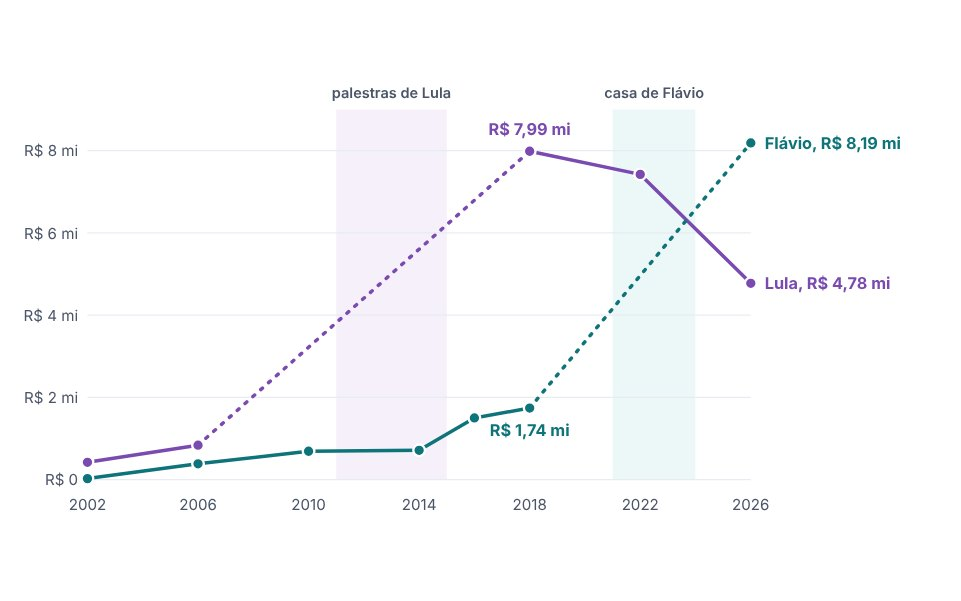
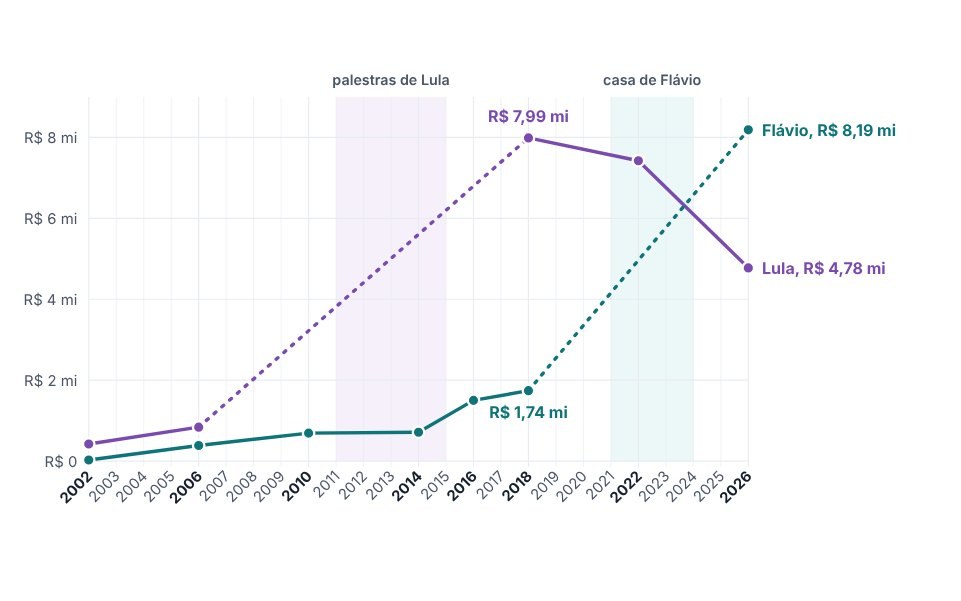
Gráfico do patrimônio com todos os anos no eixo
Cada ano de 2002 a 2026 aparece no eixo, com os anos de declaração ao TSE
em negrito. No celular, o gráfico rola para o lado em vez de pular anos.

diff --git a/patrimonio/index.html b/patrimonio/index.html
@@ -86,7 +86,8 @@ h3{font:700 1.08rem var(--sans);margin:0 0 .7rem}
 .chart{margin:1rem 0 0;background:var(--card);border:1px solid var(--line);border-radius:14px;padding:1rem 1rem .6rem}
 .chart svg{display:block;width:100%;height:auto;font-family:var(--sans)}
 .chart .grid{stroke:var(--grid);stroke-width:1}
-.chart .ax{fill:var(--ink-2);font-size:13px}
+.chart .vgrid{stroke:var(--grid);stroke-width:1;opacity:.6} .chart .vgrid.vd{opacity:1}
+.chart .ax{fill:var(--ink-2);font-size:13px} .chart .ax.yd{fill:var(--ink);font-weight:700}
 .chart .band{opacity:.55} .chart .lu-band{fill:var(--lu-soft)} .chart .fl-band{fill:var(--fl-soft)}
 .chart .band-t{fill:var(--ink-2);font-size:12.5px;font-weight:600}
 .chart .ln{stroke-width:3;stroke-linecap:round} .chart .ln.dash{stroke-dasharray:2 7}
@@ -94,9 +95,11 @@ h3{font:700 1.08rem var(--sans);margin:0 0 .7rem}
 .chart .pt{stroke:var(--card);stroke-width:2} .chart .pt.fl{fill:var(--fl)} .chart .pt.lu{fill:var(--lu)}
 .chart .vl{font-size:14px;font-weight:700} .chart .vl.fl{fill:var(--fl)} .chart .vl.lu{fill:var(--lu)}
 .chart figcaption{font-size:.86rem;color:var(--ink-2);margin-top:.4rem}
-.chart .g-small{display:none}
-@media (max-width:640px){.chart{padding:.8rem .6rem .6rem}.chart .g-big{display:none}.chart .g-small{display:block}.chart .ax,.chart .band-t{font-size:13px}.chart .vl{font-size:14.5px}}
-.gwrap{display:grid;gap:1.2rem;align-items:start}
+.chart .scroll{overflow-x:auto;-webkit-overflow-scrolling:touch}
+.chart .hint{display:none;margin:0 0 .4rem;font-size:.84rem;color:var(--ink-2)}
+@media (max-width:640px){.chart{padding:.8rem .6rem .6rem}.chart .scroll svg{width:660px;max-width:none}.chart .hint{display:block}}
+.gwrap{display:grid;grid-template-columns:minmax(0,1fr);gap:1.2rem;align-items:start}
+.gwrap>*{min-width:0}
 @media (min-width:980px){.gwrap{grid-template-columns:minmax(0,1fr) 300px}}
 .decl{width:100%;border-collapse:collapse;background:var(--card);border:1px solid var(--line);border-radius:12px;overflow:hidden;font-size:.95rem}
 .decl th,.decl td{padding:.5rem .7rem;border-bottom:1px solid var(--line);text-align:right}
@@ -207,7 +210,7 @@ h3{font:700 1.08rem var(--sans);margin:0 0 .7rem}
     <h2 id="h-graf">O patrimônio declarado, eleição por eleição</h2>
     <p class="muted">Bens em nome de cada um, pelo valor declarado ao TSE, sem dívidas. A linha pontilhada liga eleições que eles não disputaram no meio do caminho.</p>
     <div class="gwrap">
-      <figure class="chart"><div class="g-big"><svg viewBox="0 0 800 400" role="img" aria-labelledby="gT gD"><title id="gT">Patrimônio declarado de Flávio e de Lula, de 2002 a 2026</title><desc id="gD">Patrimônio declarado ao TSE. Flávio: 2002, R$ 26 mil; 2006, R$ 385 mil; 2010, R$ 691 mil; 2014, R$ 714 mil; 2016, R$ 1,50 milhão; 2018, R$ 1,74 milhão; 2026, R$ 8,19 milhões. Lula: 2002, R$ 423 mil; 2006, R$ 839 mil; 2018, R$ 7,99 milhões; 2022, R$ 7,42 milhões; 2026, R$ 4,78 milhões.</desc><rect x="283.8" y="34" width="95.0" height="318" class="band lu-band"/><text x="331.2" y="24" class="band-t" text-anchor="middle">palestras de Lula</text><rect x="521.2" y="34" width="71.2" height="318" class="band fl-band"/><text x="556.9" y="24" class="band-t" text-anchor="middle">casa de Flávio</text><line x1="70" x2="640" y1="352.0" y2="352.0" class="grid"/><text x="62" y="357.0" class="ax" text-anchor="end">R$ 0</text><line x1="70" x2="640" y1="281.3" y2="281.3" class="grid"/><text x="62" y="286.3" class="ax" text-anchor="end">R$ 2 mi</text><line x1="70" x2="640" y1="210.7" y2="210.7" class="grid"/><text x="62" y="215.7" class="ax" text-anchor="end">R$ 4 mi</text><line x1="70" x2="640" y1="140.0" y2="140.0" class="grid"/><text x="62" y="145.0" class="ax" text-anchor="end">R$ 6 mi</text><line x1="70" x2="640" y1="69.3" y2="69.3" class="grid"/><text x="62" y="74.3" class="ax" text-anchor="end">R$ 8 mi</text><text x="70.0" y="378" class="ax" text-anchor="middle">2002</text><text x="165.0" y="378" class="ax" text-anchor="middle">2006</text><text x="260.0" y="378" class="ax" text-anchor="middle">2010</text><text x="355.0" y="378" class="ax" text-anchor="middle">2014</text><text x="450.0" y="378" class="ax" text-anchor="middle">2018</text><text x="545.0" y="378" class="ax" text-anchor="middle">2022</text><text x="640.0" y="378" class="ax" text-anchor="middle">2026</text><line x1="70.0" y1="337.1" x2="165.0" y2="322.4" class="ln lu"/><line x1="165.0" y1="322.4" x2="450.0" y2="69.8" class="ln lu dash"/><line x1="450.0" y1="69.8" x2="545.0" y2="89.7" class="ln lu"/><line x1="545.0" y1="89.7" x2="640.0" y2="183.3" class="ln lu"/><circle cx="70.0" cy="337.1" r="5" class="pt lu"><title>2002: R$ 423 mil</title></circle><circle cx="165.0" cy="322.4" r="5" class="pt lu"><title>2006: R$ 839 mil</title></circle><circle cx="450.0" cy="69.8" r="5" class="pt lu"><title>2018: R$ 7,99 milhões</title></circle><circle cx="545.0" cy="89.7" r="5" class="pt lu"><title>2022: R$ 7,42 milhões</title></circle><circle cx="640.0" cy="183.3" r="5" class="pt lu"><title>2026: R$ 4,78 milhões</title></circle><line x1="70.0" y1="351.1" x2="165.0" y2="338.4" class="ln fl"/><line x1="165.0" y1="338.4" x2="260.0" y2="327.6" class="ln fl"/><line x1="260.0" y1="327.6" x2="355.0" y2="326.8" class="ln fl"/><line x1="355.0" y1="326.8" x2="402.5" y2="299.0" class="ln fl"/><line x1="402.5" y1="299.0" x2="450.0" y2="290.5" class="ln fl"/><line x1="450.0" y1="290.5" x2="640.0" y2="62.7" class="ln fl dash"/><circle cx="70.0" cy="351.1" r="5" class="pt fl"><title>2002: R$ 26 mil</title></circle><circle cx="165.0" cy="338.4" r="5" class="pt fl"><title>2006: R$ 385 mil</title></circle><circle cx="260.0" cy="327.6" r="5" class="pt fl"><title>2010: R$ 691 mil</title></circle><circle cx="355.0" cy="326.8" r="5" class="pt fl"><title>2014: R$ 714 mil</title></circle><circle cx="402.5" cy="299.0" r="5" class="pt fl"><title>2016: R$ 1,50 milhão</title></circle><circle cx="450.0" cy="290.5" r="5" class="pt fl"><title>2018: R$ 1,74 milhão</title></circle><circle cx="640.0" cy="62.7" r="5" class="pt fl"><title>2026: R$ 8,19 milhões</title></circle><text x="450.0" y="55.8" class="vl lu" text-anchor="middle">R$ 7,99 mi</text><text x="450.0" y="314.5" class="vl fl" text-anchor="middle">R$ 1,74 mi</text><text x="652.0" y="67.7" class="vl fl">Flávio, R$ 8,19 mi</text><text x="652.0" y="188.3" class="vl lu">Lula, R$ 4,78 mi</text></svg></div><div class="g-small"><svg viewBox="0 0 430 330" role="img" aria-labelledby="gT2 gD2"><title id="gT2">Patrimônio declarado de Flávio e de Lula, de 2002 a 2026</title><desc id="gD2">Patrimônio declarado ao TSE. Flávio: 2002, R$ 26 mil; 2006, R$ 385 mil; 2010, R$ 691 mil; 2014, R$ 714 mil; 2016, R$ 1,50 milhão; 2018, R$ 1,74 milhão; 2026, R$ 8,19 milhões. Lula: 2002, R$ 423 mil; 2006, R$ 839 mil; 2018, R$ 7,99 milhões; 2022, R$ 7,42 milhões; 2026, R$ 4,78 milhões.</desc><rect x="152.5" y="30" width="47.3" height="260" class="band lu-band"/><text x="176.2" y="20" class="band-t" text-anchor="middle">palestras</text><rect x="270.8" y="30" width="35.5" height="260" class="band fl-band"/><text x="288.6" y="20" class="band-t" text-anchor="middle">casa</text><line x1="46" x2="330" y1="290.0" y2="290.0" class="grid"/><text x="38" y="295.0" class="ax" text-anchor="end">0</text><line x1="46" x2="330" y1="232.2" y2="232.2" class="grid"/><text x="38" y="237.2" class="ax" text-anchor="end">2 mi</text><line x1="46" x2="330" y1="174.4" y2="174.4" class="grid"/><text x="38" y="179.4" class="ax" text-anchor="end">4 mi</text><line x1="46" x2="330" y1="116.7" y2="116.7" class="grid"/><text x="38" y="121.7" class="ax" text-anchor="end">6 mi</text><line x1="46" x2="330" y1="58.9" y2="58.9" class="grid"/><text x="38" y="63.9" class="ax" text-anchor="end">8 mi</text><text x="46.0" y="316" class="ax" text-anchor="middle">2002</text><text x="140.7" y="316" class="ax" text-anchor="middle">2010</text><text x="235.3" y="316" class="ax" text-anchor="middle">2018</text><text x="330.0" y="316" class="ax" text-anchor="middle">2026</text><line x1="46.0" y1="277.8" x2="93.3" y2="265.8" class="ln lu"/><line x1="93.3" y1="265.8" x2="235.3" y2="59.2" class="ln lu dash"/><line x1="235.3" y1="59.2" x2="282.7" y2="75.5" class="ln lu"/><line x1="282.7" y1="75.5" x2="330.0" y2="152.0" class="ln lu"/><circle cx="46.0" cy="277.8" r="5" class="pt lu"><title>2002: R$ 423 mil</title></circle><circle cx="93.3" cy="265.8" r="5" class="pt lu"><title>2006: R$ 839 mil</title></circle><circle cx="235.3" cy="59.2" r="5" class="pt lu"><title>2018: R$ 7,99 milhões</title></circle><circle cx="282.7" cy="75.5" r="5" class="pt lu"><title>2022: R$ 7,42 milhões</title></circle><circle cx="330.0" cy="152.0" r="5" class="pt lu"><title>2026: R$ 4,78 milhões</title></circle><line x1="46.0" y1="289.3" x2="93.3" y2="278.9" class="ln fl"/><line x1="93.3" y1="278.9" x2="140.7" y2="270.0" class="ln fl"/><line x1="140.7" y1="270.0" x2="188.0" y2="269.4" class="ln fl"/><line x1="188.0" y1="269.4" x2="211.7" y2="246.7" class="ln fl"/><line x1="211.7" y1="246.7" x2="235.3" y2="239.7" class="ln fl"/><line x1="235.3" y1="239.7" x2="330.0" y2="53.5" class="ln fl dash"/><circle cx="46.0" cy="289.3" r="5" class="pt fl"><title>2002: R$ 26 mil</title></circle><circle cx="93.3" cy="278.9" r="5" class="pt fl"><title>2006: R$ 385 mil</title></circle><circle cx="140.7" cy="270.0" r="5" class="pt fl"><title>2010: R$ 691 mil</title></circle><circle cx="188.0" cy="269.4" r="5" class="pt fl"><title>2014: R$ 714 mil</title></circle><circle cx="211.7" cy="246.7" r="5" class="pt fl"><title>2016: R$ 1,50 milhão</title></circle><circle cx="235.3" cy="239.7" r="5" class="pt fl"><title>2018: R$ 1,74 milhão</title></circle><circle cx="330.0" cy="53.5" r="5" class="pt fl"><title>2026: R$ 8,19 milhões</title></circle><text x="235.3" y="45.2" class="vl lu" text-anchor="middle">R$ 7,99 mi</text><text x="239.3" y="263.7" class="vl fl" text-anchor="start">R$ 1,74 mi</text><text x="340.0" y="50.5" class="vl fl"><tspan>Flávio</tspan><tspan x="340.0" dy="16">R$ 8,19 mi</tspan></text><text x="340.0" y="149.0" class="vl lu"><tspan>Lula</tspan><tspan x="340.0" dy="16">R$ 4,78 mi</tspan></text></svg></div><figcaption>Fontes: Poder360, Metrópoles, Congresso em Foco e SBT News, a partir das declarações ao TSE. Lula não disputou eleições em 2010, 2014 e 2016; Flávio, em 2022.</figcaption></figure>
+      <figure class="chart"><p class="hint">Deslize o gráfico para o lado para ver todos os anos.</p><div class="scroll"><svg viewBox="0 0 820 420" role="img" aria-labelledby="gT gD"><title id="gT">Patrimônio declarado de Flávio e de Lula, de 2002 a 2026</title><desc id="gD">Patrimônio declarado ao TSE. Flávio: 2002, R$ 26 mil; 2006, R$ 385 mil; 2010, R$ 691 mil; 2014, R$ 714 mil; 2016, R$ 1,50 milhão; 2018, R$ 1,74 milhão; 2026, R$ 8,19 milhões. Lula: 2002, R$ 423 mil; 2006, R$ 839 mil; 2018, R$ 7,99 milhões; 2022, R$ 7,42 milhões; 2026, R$ 4,78 milhões.</desc><rect x="290.0" y="34" width="96.0" height="318" class="band lu-band"/><text x="338.0" y="24" class="band-t" text-anchor="middle">palestras de Lula</text><rect x="530.0" y="34" width="72.0" height="318" class="band fl-band"/><text x="566.0" y="24" class="band-t" text-anchor="middle">casa de Flávio</text><line x1="74.0" x2="74.0" y1="34" y2="357" class="vgrid vd"/><text transform="translate(78.0 366) rotate(-45)" class="ax yd" text-anchor="end">2002</text><line x1="98.0" x2="98.0" y1="34" y2="357" class="vgrid"/><text transform="translate(102.0 366) rotate(-45)" class="ax" text-anchor="end">2003</text><line x1="122.0" x2="122.0" y1="34" y2="357" class="vgrid"/><text transform="translate(126.0 366) rotate(-45)" class="ax" text-anchor="end">2004</text><line x1="146.0" x2="146.0" y1="34" y2="357" class="vgrid"/><text transform="translate(150.0 366) rotate(-45)" class="ax" text-anchor="end">2005</text><line x1="170.0" x2="170.0" y1="34" y2="357" class="vgrid vd"/><text transform="translate(174.0 366) rotate(-45)" class="ax yd" text-anchor="end">2006</text><line x1="194.0" x2="194.0" y1="34" y2="357" class="vgrid"/><text transform="translate(198.0 366) rotate(-45)" class="ax" text-anchor="end">2007</text><line x1="218.0" x2="218.0" y1="34" y2="357" class="vgrid"/><text transform="translate(222.0 366) rotate(-45)" class="ax" text-anchor="end">2008</text><line x1="242.0" x2="242.0" y1="34" y2="357" class="vgrid"/><text transform="translate(246.0 366) rotate(-45)" class="ax" text-anchor="end">2009</text><line x1="266.0" x2="266.0" y1="34" y2="357" class="vgrid vd"/><text transform="translate(270.0 366) rotate(-45)" class="ax yd" text-anchor="end">2010</text><line x1="290.0" x2="290.0" y1="34" y2="357" class="vgrid"/><text transform="translate(294.0 366) rotate(-45)" class="ax" text-anchor="end">2011</text><line x1="314.0" x2="314.0" y1="34" y2="357" class="vgrid"/><text transform="translate(318.0 366) rotate(-45)" class="ax" text-anchor="end">2012</text><line x1="338.0" x2="338.0" y1="34" y2="357" class="vgrid"/><text transform="translate(342.0 366) rotate(-45)" class="ax" text-anchor="end">2013</text><line x1="362.0" x2="362.0" y1="34" y2="357" class="vgrid vd"/><text transform="translate(366.0 366) rotate(-45)" class="ax yd" text-anchor="end">2014</text><line x1="386.0" x2="386.0" y1="34" y2="357" class="vgrid"/><text transform="translate(390.0 366) rotate(-45)" class="ax" text-anchor="end">2015</text><line x1="410.0" x2="410.0" y1="34" y2="357" class="vgrid vd"/><text transform="translate(414.0 366) rotate(-45)" class="ax yd" text-anchor="end">2016</text><line x1="434.0" x2="434.0" y1="34" y2="357" class="vgrid"/><text transform="translate(438.0 366) rotate(-45)" class="ax" text-anchor="end">2017</text><line x1="458.0" x2="458.0" y1="34" y2="357" class="vgrid vd"/><text transform="translate(462.0 366) rotate(-45)" class="ax yd" text-anchor="end">2018</text><line x1="482.0" x2="482.0" y1="34" y2="357" class="vgrid"/><text transform="translate(486.0 366) rotate(-45)" class="ax" text-anchor="end">2019</text><line x1="506.0" x2="506.0" y1="34" y2="357" class="vgrid"/><text transform="translate(510.0 366) rotate(-45)" class="ax" text-anchor="end">2020</text><line x1="530.0" x2="530.0" y1="34" y2="357" class="vgrid"/><text transform="translate(534.0 366) rotate(-45)" class="ax" text-anchor="end">2021</text><line x1="554.0" x2="554.0" y1="34" y2="357" class="vgrid vd"/><text transform="translate(558.0 366) rotate(-45)" class="ax yd" text-anchor="end">2022</text><line x1="578.0" x2="578.0" y1="34" y2="357" class="vgrid"/><text transform="translate(582.0 366) rotate(-45)" class="ax" text-anchor="end">2023</text><line x1="602.0" x2="602.0" y1="34" y2="357" class="vgrid"/><text transform="translate(606.0 366) rotate(-45)" class="ax" text-anchor="end">2024</text><line x1="626.0" x2="626.0" y1="34" y2="357" class="vgrid"/><text transform="translate(630.0 366) rotate(-45)" class="ax" text-anchor="end">2025</text><line x1="650.0" x2="650.0" y1="34" y2="357" class="vgrid vd"/><text transform="translate(654.0 366) rotate(-45)" class="ax yd" text-anchor="end">2026</text><line x1="74" x2="650" y1="352.0" y2="352.0" class="grid"/><text x="64" y="357.0" class="ax" text-anchor="end">R$ 0</text><line x1="74" x2="650" y1="281.3" y2="281.3" class="grid"/><text x="64" y="286.3" class="ax" text-anchor="end">R$ 2 mi</text><line x1="74" x2="650" y1="210.7" y2="210.7" class="grid"/><text x="64" y="215.7" class="ax" text-anchor="end">R$ 4 mi</text><line x1="74" x2="650" y1="140.0" y2="140.0" class="grid"/><text x="64" y="145.0" class="ax" text-anchor="end">R$ 6 mi</text><line x1="74" x2="650" y1="69.3" y2="69.3" class="grid"/><text x="64" y="74.3" class="ax" text-anchor="end">R$ 8 mi</text><line x1="74.0" y1="337.1" x2="170.0" y2="322.4" class="ln lu"/><line x1="170.0" y1="322.4" x2="458.0" y2="69.8" class="ln lu dash"/><line x1="458.0" y1="69.8" x2="554.0" y2="89.7" class="ln lu"/><line x1="554.0" y1="89.7" x2="650.0" y2="183.3" class="ln lu"/><circle cx="74.0" cy="337.1" r="5" class="pt lu"><title>2002: R$ 423 mil</title></circle><circle cx="170.0" cy="322.4" r="5" class="pt lu"><title>2006: R$ 839 mil</title></circle><circle cx="458.0" cy="69.8" r="5" class="pt lu"><title>2018: R$ 7,99 milhões</title></circle><circle cx="554.0" cy="89.7" r="5" class="pt lu"><title>2022: R$ 7,42 milhões</title></circle><circle cx="650.0" cy="183.3" r="5" class="pt lu"><title>2026: R$ 4,78 milhões</title></circle><line x1="74.0" y1="351.1" x2="170.0" y2="338.4" class="ln fl"/><line x1="170.0" y1="338.4" x2="266.0" y2="327.6" class="ln fl"/><line x1="266.0" y1="327.6" x2="362.0" y2="326.8" class="ln fl"/><line x1="362.0" y1="326.8" x2="410.0" y2="299.0" class="ln fl"/><line x1="410.0" y1="299.0" x2="458.0" y2="290.5" class="ln fl"/><line x1="458.0" y1="290.5" x2="650.0" y2="62.7" class="ln fl dash"/><circle cx="74.0" cy="351.1" r="5" class="pt fl"><title>2002: R$ 26 mil</title></circle><circle cx="170.0" cy="338.4" r="5" class="pt fl"><title>2006: R$ 385 mil</title></circle><circle cx="266.0" cy="327.6" r="5" class="pt fl"><title>2010: R$ 691 mil</title></circle><circle cx="362.0" cy="326.8" r="5" class="pt fl"><title>2014: R$ 714 mil</title></circle><circle cx="410.0" cy="299.0" r="5" class="pt fl"><title>2016: R$ 1,50 milhão</title></circle><circle cx="458.0" cy="290.5" r="5" class="pt fl"><title>2018: R$ 1,74 milhão</title></circle><circle cx="650.0" cy="62.7" r="5" class="pt fl"><title>2026: R$ 8,19 milhões</title></circle><text x="458.0" y="55.8" class="vl lu" text-anchor="middle">R$ 7,99 mi</text><text x="458.0" y="314.5" class="vl fl" text-anchor="middle">R$ 1,74 mi</text><text x="662.0" y="67.7" class="vl fl">Flávio, R$ 8,19 mi</text><text x="662.0" y="188.3" class="vl lu">Lula, R$ 4,78 mi</text></svg></div><figcaption>Os candidatos só declaram os bens nos anos em que disputam eleição, marcados em negrito. Lula não disputou em 2010, 2014 e 2016; Flávio, em 2022. Fontes: Poder360, Metrópoles, Congresso em Foco e SBT News, a partir das declarações ao TSE.</figcaption></figure>
       <table class="decl"><caption class="sr">Patrimônio declarado em cada eleição</caption><thead><tr><th scope="col">Eleição</th><th scope="col" class="fl">Flávio</th><th scope="col" class="lu">Lula</th></tr></thead><tbody><tr><th scope="row">2002</th><td>R$ 25,5 mil</td><td>R$ 422,9 mil</td></tr><tr><th scope="row">2006</th><td>R$ 385 mil</td><td>R$ 839 mil</td></tr><tr><th scope="row">2010</th><td>R$ 691 mil</td><td><span class="muted">não disputou</span></td></tr><tr><th scope="row">2014</th><td>R$ 714 mil</td><td><span class="muted">não disputou</span></td></tr><tr><th scope="row">2016</th><td>R$ 1,50 mi</td><td><span class="muted">não disputou</span></td></tr><tr><th scope="row">2018</th><td>R$ 1,74 mi</td><td>R$ 7,99 mi</td></tr><tr><th scope="row">2022</th><td><span class="muted">não disputou</span></td><td>R$ 7,42 mi</td></tr><tr><th scope="row">2026</th><td>R$ 8,19 mi</td><td>R$ 4,78 mi</td></tr></tbody></table>
     </div>
     <p class="callout">Em 2018, Lula declarava R$ 7,99 milhões e Flávio, R$ 1,74 milhão. Em 2026, Flávio declarou R$ 8,19 milhões, R$ 3,41 milhões a mais que Lula.</p>

diff --git a/patrimonio/ferramentas/montar.py b/patrimonio/ferramentas/montar.py
@@ -153,24 +153,23 @@ def rich(t):
 
 
 # ---------------------------------------------------------------- gráfico (SVG)
-def grafico(compacto=False):
-    if compacto:
-        W, H, L0, R0, T0, B0 = 430, 330, 46, 330, 30, 290
-    else:
-        W, H, L0, R0, T0, B0 = 800, 400, 70, 640, 34, 352
+def grafico():
+    """patrimônio declarado em cada eleição, com todos os anos no eixo (os anos com declaração em negrito)"""
+    W, H, L0, R0, T0, B0 = 820, 420, 74, 650, 34, 352
     x = lambda a: L0 + (a - 2002) * (R0 - L0) / 24
     y = lambda v: B0 - v / 9e6 * (B0 - T0)
+    decl = set(TSE_F) | set(TSE_L)
     g = []
     g.append(f'<rect x="{x(2011):.1f}" y="{T0}" width="{x(2015) - x(2011):.1f}" height="{B0 - T0}" class="band lu-band"/>')
-    g.append(f'<text x="{(x(2011) + x(2015)) / 2:.1f}" y="{T0 - 10}" class="band-t" text-anchor="middle">{"palestras" if compacto else "palestras de Lula"}</text>')
+    g.append(f'<text x="{(x(2011) + x(2015)) / 2:.1f}" y="{T0 - 10}" class="band-t" text-anchor="middle">palestras de Lula</text>')
     g.append(f'<rect x="{x(2021):.1f}" y="{T0}" width="{x(2024) - x(2021):.1f}" height="{B0 - T0}" class="band fl-band"/>')
-    g.append(f'<text x="{(x(2021) + x(2024)) / 2:.1f}" y="{T0 - 10}" class="band-t" text-anchor="middle">{"casa" if compacto else "casa de Flávio"}</text>')
+    g.append(f'<text x="{(x(2021) + x(2024)) / 2:.1f}" y="{T0 - 10}" class="band-t" text-anchor="middle">casa de Flávio</text>')
+    for a in range(2002, 2027):
+        g.append(f'<line x1="{x(a):.1f}" x2="{x(a):.1f}" y1="{T0}" y2="{B0 + 5}" class="vgrid{" vd" if a in decl else ""}"/>')
+        g.append(f'<text transform="translate({x(a) + 4:.1f} {B0 + 14}) rotate(-45)" class="ax{" yd" if a in decl else ""}" text-anchor="end">{a}</text>')
     for v in range(0, 10, 2):
         g.append(f'<line x1="{L0}" x2="{R0}" y1="{y(v * 1e6):.1f}" y2="{y(v * 1e6):.1f}" class="grid"/>')
-        rot = ("0" if compacto else "R$ 0") if v == 0 else (f"{v} mi" if compacto else f"R$ {v} mi")
-        g.append(f'<text x="{L0 - 8}" y="{y(v * 1e6) + 5:.1f}" class="ax" text-anchor="end">{rot}</text>')
-    for a in range(2002, 2027, 8 if compacto else 4):
-        g.append(f'<text x="{x(a):.1f}" y="{B0 + 26}" class="ax" text-anchor="middle">{a}</text>')
+        g.append(f'<text x="{L0 - 10}" y="{y(v * 1e6) + 5:.1f}" class="ax" text-anchor="end">{"R$ 0" if v == 0 else f"R$ {v} mi"}</text>')
 
     def serie(pts, cls, quebras):
         out = []
@@ -184,23 +183,14 @@ def grafico(compacto=False):
     pl = sorted(TSE_L.items())
     g += serie(pl, 'lu', {(2006, 2018)})
     g += serie(pf, 'fl', {(2018, 2026)})
-    lab = [
-        (2018, TSE_L[2018], 'lu', 'R$ 7,99 mi', 'middle', 0, -14),
-        (2018, TSE_F[2018], 'fl', 'R$ 1,74 mi', 'start' if compacto else 'middle', 4 if compacto else 0, 24),
-    ]
-    for a, v, cls, t, anc, dx, dy in lab:
-        g.append(f'<text x="{x(a) + dx:.1f}" y="{y(v) + dy:.1f}" class="vl {cls}" text-anchor="{anc}">{t}</text>')
+    for a, v, cls, t, dy in ((2018, TSE_L[2018], 'lu', 'R$ 7,99 mi', -14), (2018, TSE_F[2018], 'fl', 'R$ 1,74 mi', 24)):
+        g.append(f'<text x="{x(a):.1f}" y="{y(v) + dy:.1f}" class="vl {cls}" text-anchor="middle">{t}</text>')
     for nome, v, cls in (('Flávio', TSE_F[2026], 'fl'), ('Lula', TSE_L[2026], 'lu')):
-        if compacto:   # nome e valor em duas linhas
-            g.append(f'<text x="{x(2026) + 10:.1f}" y="{y(v) - 3:.1f}" class="vl {cls}"><tspan>{nome}</tspan>'
-                     f'<tspan x="{x(2026) + 10:.1f}" dy="16">{mi(v, 2, curto=True)}</tspan></text>')
-        else:
-            g.append(f'<text x="{x(2026) + 12:.1f}" y="{y(v) + 5:.1f}" class="vl {cls}">{nome}, {mi(v, 2, curto=True)}</text>')
+        g.append(f'<text x="{x(2026) + 12:.1f}" y="{y(v) + 5:.1f}" class="vl {cls}">{nome}, {mi(v, 2, curto=True)}</text>')
     desc = ('Patrimônio declarado ao TSE. Flávio: ' + '; '.join(f'{a}, {mi(v, 2) if v >= 1e6 else mil(v)}' for a, v in pf)
             + '. Lula: ' + '; '.join(f'{a}, {mi(v, 2) if v >= 1e6 else mil(v)}' for a, v in pl) + '.')
-    k = '2' if compacto else ''
-    return (f'<svg viewBox="0 0 {W} {H}" role="img" aria-labelledby="gT{k} gD{k}"><title id="gT{k}">Patrimônio declarado de Flávio e de Lula, '
-            f'de 2002 a 2026</title><desc id="gD{k}">{e(desc)}</desc>' + ''.join(g) + '</svg>')
+    return (f'<svg viewBox="0 0 {W} {H}" role="img" aria-labelledby="gT gD"><title id="gT">Patrimônio declarado de Flávio e de Lula, '
+            f'de 2002 a 2026</title><desc id="gD">{e(desc)}</desc>' + ''.join(g) + '</svg>')
 
 
 def tabela_decl():
@@ -492,7 +482,8 @@ h3{font:700 1.08rem var(--sans);margin:0 0 .7rem}
 .chart{margin:1rem 0 0;background:var(--card);border:1px solid var(--line);border-radius:14px;padding:1rem 1rem .6rem}
 .chart svg{display:block;width:100%;height:auto;font-family:var(--sans)}
 .chart .grid{stroke:var(--grid);stroke-width:1}
-.chart .ax{fill:var(--ink-2);font-size:13px}
+.chart .vgrid{stroke:var(--grid);stroke-width:1;opacity:.6} .chart .vgrid.vd{opacity:1}
+.chart .ax{fill:var(--ink-2);font-size:13px} .chart .ax.yd{fill:var(--ink);font-weight:700}
 .chart .band{opacity:.55} .chart .lu-band{fill:var(--lu-soft)} .chart .fl-band{fill:var(--fl-soft)}
 .chart .band-t{fill:var(--ink-2);font-size:12.5px;font-weight:600}
 .chart .ln{stroke-width:3;stroke-linecap:round} .chart .ln.dash{stroke-dasharray:2 7}
@@ -500,9 +491,11 @@ h3{font:700 1.08rem var(--sans);margin:0 0 .7rem}
 .chart .pt{stroke:var(--card);stroke-width:2} .chart .pt.fl{fill:var(--fl)} .chart .pt.lu{fill:var(--lu)}
 .chart .vl{font-size:14px;font-weight:700} .chart .vl.fl{fill:var(--fl)} .chart .vl.lu{fill:var(--lu)}
 .chart figcaption{font-size:.86rem;color:var(--ink-2);margin-top:.4rem}
-.chart .g-small{display:none}
-@media (max-width:640px){.chart{padding:.8rem .6rem .6rem}.chart .g-big{display:none}.chart .g-small{display:block}.chart .ax,.chart .band-t{font-size:13px}.chart .vl{font-size:14.5px}}
-.gwrap{display:grid;gap:1.2rem;align-items:start}
+.chart .scroll{overflow-x:auto;-webkit-overflow-scrolling:touch}
+.chart .hint{display:none;margin:0 0 .4rem;font-size:.84rem;color:var(--ink-2)}
+@media (max-width:640px){.chart{padding:.8rem .6rem .6rem}.chart .scroll svg{width:660px;max-width:none}.chart .hint{display:block}}
+.gwrap{display:grid;grid-template-columns:minmax(0,1fr);gap:1.2rem;align-items:start}
+.gwrap>*{min-width:0}
 @media (min-width:980px){.gwrap{grid-template-columns:minmax(0,1fr) 300px}}
 .decl{width:100%;border-collapse:collapse;background:var(--card);border:1px solid var(--line);border-radius:12px;overflow:hidden;font-size:.95rem}
 .decl th,.decl td{padding:.5rem .7rem;border-bottom:1px solid var(--line);text-align:right}
@@ -613,7 +606,7 @@ h3{font:700 1.08rem var(--sans);margin:0 0 .7rem}
     <h2 id="h-graf">O patrimônio declarado, eleição por eleição</h2>
     <p class="muted">Bens em nome de cada um, pelo valor declarado ao TSE, sem dívidas. A linha pontilhada liga eleições que eles não disputaram no meio do caminho.</p>
     <div class="gwrap">
-      <figure class="chart"><div class="g-big">__SVG__</div><div class="g-small">__SVG2__</div><figcaption>Fontes: Poder360, Metrópoles, Congresso em Foco e SBT News, a partir das declarações ao TSE. Lula não disputou eleições em 2010, 2014 e 2016; Flávio, em 2022.</figcaption></figure>
+      <figure class="chart"><p class="hint">Deslize o gráfico para o lado para ver todos os anos.</p><div class="scroll">__SVG__</div><figcaption>Os candidatos só declaram os bens nos anos em que disputam eleição, marcados em negrito. Lula não disputou em 2010, 2014 e 2016; Flávio, em 2022. Fontes: Poder360, Metrópoles, Congresso em Foco e SBT News, a partir das declarações ao TSE.</figcaption></figure>
       __DECL__
     </div>
     <p class="callout">Em 2018, Lula declarava __L18__ e Flávio, __F18__. Em 2026, Flávio declarou __F26__, __DIF__ a mais que Lula.</p>
@@ -741,7 +734,7 @@ def main():
     tw = 'https://twitter.com/intent/tweet?text=' + quote(f'{SHARE_TITLE}: em 2026, Flávio declarou {mi(TSE_F[2026], 2)}; Lula, {mi(TSE_L[2026], 2)}. Onde a conta não fecha, com as fontes.') + '&url=' + quote(URL)
     fb = 'https://www.facebook.com/sharer/sharer.php?u=' + quote(URL)
     rep = {
-        '__DESC__': e(DESC), '__URL__': URL, '__SVG__': grafico(), '__SVG2__': grafico(True), '__DECL__': tabela_decl(),
+        '__DESC__': e(DESC), '__URL__': URL, '__SVG__': grafico(), '__DECL__': tabela_decl(),
         '__L18__': mi(TSE_L[2018], 2), '__F18__': mi(TSE_F[2018], 2), '__F26__': mi(TSE_F[2026], 2), '__DIF__': mi(dif_2026, 2),
         '__LADO__': lado_a_lado(), '__TRAJ__': trajetoria(),
         '__TRAJSRC__': fontes('metro_l', 'senado', 'cargo', 'p360_f', 'cf_2006', 'den', 'susp'),

diff --git a/patrimonio/ferramentas/previa.py b/patrimonio/ferramentas/previa.py
@@ -40,9 +40,9 @@ h1 span{{background:linear-gradient(transparent 58%,#ffe14d 58% 92%,transparent 
 
 CARTAO = f"""<!doctype html><html lang="pt-BR"><head><meta charset="utf-8"><style>
 *{{box-sizing:border-box}} body{{margin:0;width:961px;height:601px;background:#fff;font-family:system-ui,"Segoe UI",Roboto,Arial,sans-serif;--fl:#0e7479;--fl-soft:#dcf0f0;--lu:#7a4ab0;--lu-soft:#ece4f6;--grid:#e8ecf2;--ink-2:#4a5568;--card:#fff}}
-.wrap{{padding:70px 24px 10px 6px}}
+.wrap{{padding:58px 18px 10px 4px}}
 svg{{display:block;width:100%;height:auto}}
-.grid{{stroke:var(--grid)}} .ax{{fill:var(--ink-2);font-size:13px}} .band{{opacity:.55}} .lu-band{{fill:var(--lu-soft)}} .fl-band{{fill:var(--fl-soft)}}
+.grid{{stroke:var(--grid)}} .vgrid{{stroke:var(--grid);opacity:.6}} .vgrid.vd{{opacity:1}} .ax{{fill:var(--ink-2);font-size:13px}} .ax.yd{{fill:#16202e;font-weight:700}} .band{{opacity:.55}} .lu-band{{fill:var(--lu-soft)}} .fl-band{{fill:var(--fl-soft)}}
 .band-t{{fill:var(--ink-2);font-size:12.5px;font-weight:600}} .ln{{stroke-width:3;stroke-linecap:round}} .ln.dash{{stroke-dasharray:2 7}}
 .ln.fl{{stroke:var(--fl)}} .ln.lu{{stroke:var(--lu)}} .pt{{stroke:#fff;stroke-width:2}} .pt.fl{{fill:var(--fl)}} .pt.lu{{fill:var(--lu)}}
 .vl{{font-size:14px;font-weight:700}} .vl.fl{{fill:var(--fl)}} .vl.lu{{fill:var(--lu)}}
